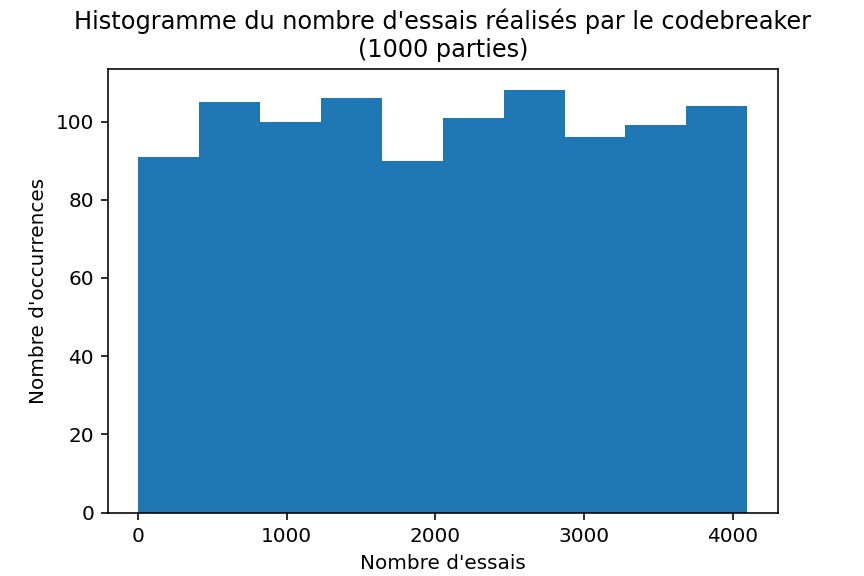
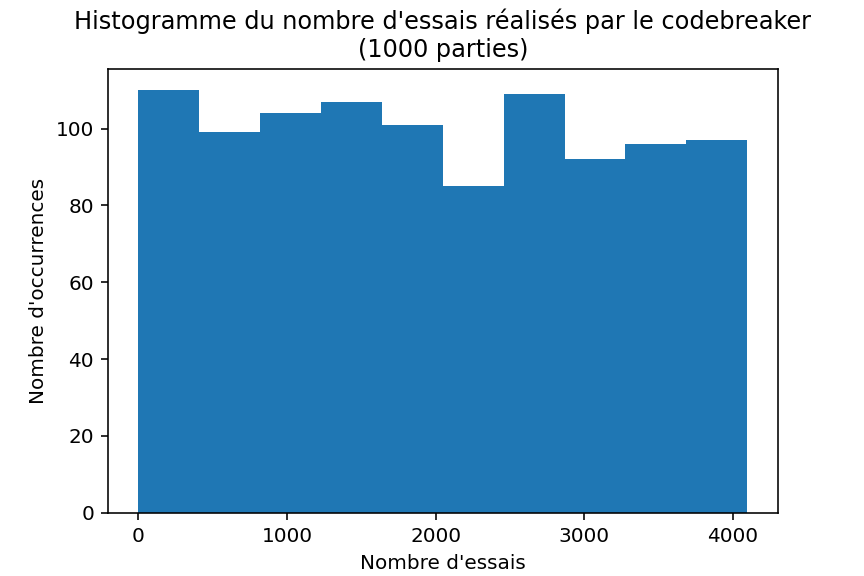
Question 4 v2

diff --git a/q4_gain.py b/q4_gain.py
@@ -6,13 +6,12 @@ import codemaker1
 import codebreaker1
 import matplotlib.pyplot as plt
 
-nbr_parties = 10000 #int(input("Combien de parties ?\n> "))
+nbr_parties = 1000 #int(input("Combien de parties ?\n> "))
 parties = []
 
 for _ in range(nbr_parties):
     parties.append(play.play(codemaker1, codebreaker1, quiet=True))
 
-print(f"Minimum d'essais : {min(parties)}, maximum d'essais : {max(parties)}")
 plt.title(f"Histogramme du nombre d'essais réalisés par le codebreaker\n({nbr_parties} parties)")
 plt.xlabel("Nombre d'essais")
 plt.ylabel("Nombre d'occurrences")

diff --git a/q3_esperance.py b/q3_esperance.py
@@ -6,7 +6,7 @@ import codemaker1
 import codebreaker0
 import matplotlib.pyplot as plt
 
-nbr_parties = 10000 #int(input("Combien de parties ?\n> "))
+nbr_parties = 1000 #int(input("Combien de parties ?\n> "))
 parties = []
 
 for _ in range(nbr_parties):
